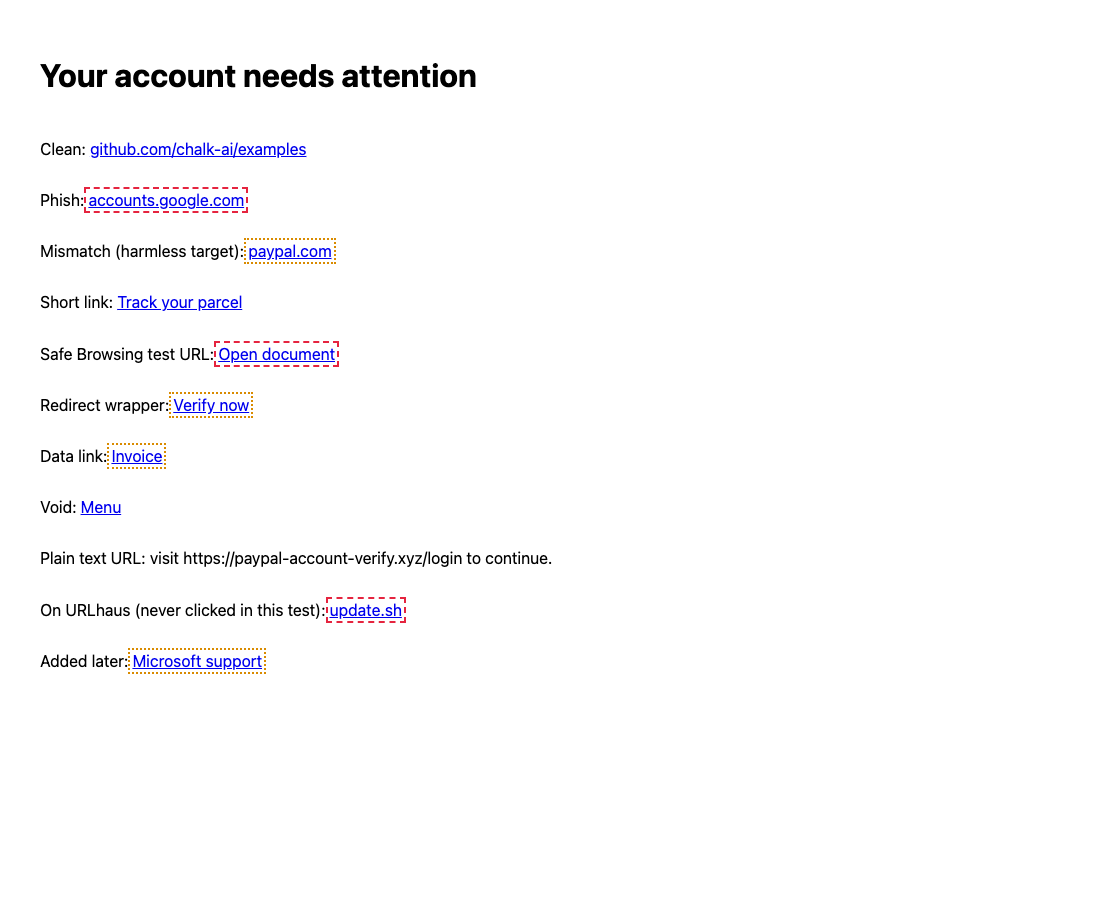
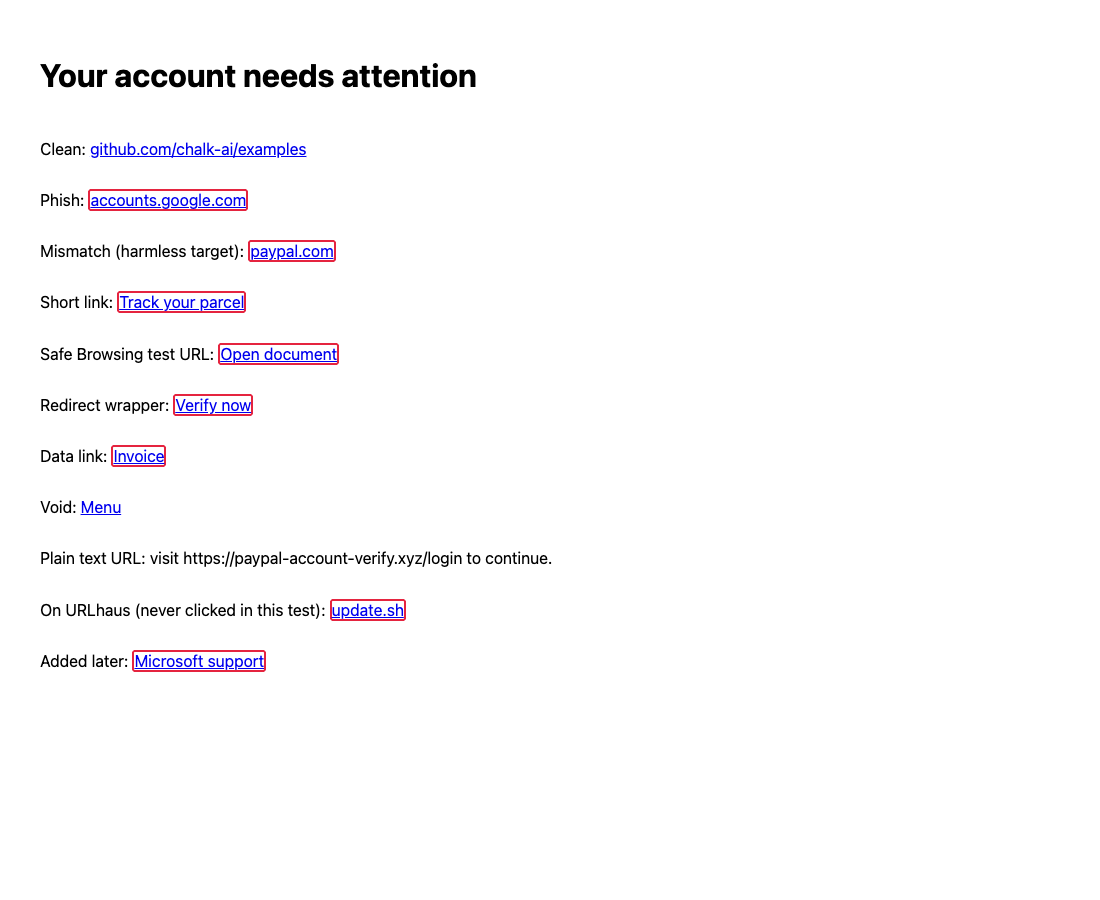
link-checks: a solid red border on every flagged link
Unknown, Suspicious and Malicious links now carry an always-visible 2 px red
border (previously amber dotted / red dashed outlines, and nothing for Unknown
until hover). Verified in headless Chrome; evidence screenshot refreshed.

diff --git a/extension/src/content.ts b/extension/src/content.ts
@@ -139,13 +139,17 @@ function reset(): void {
 // ---- Marking links ----
 
 const STYLE_ID = 'aegis-link-marks'
-// One colour per verdict that reads on light and dark pages alike: the page's background doesn't
-// follow the system theme, so the design system's theme pair doesn't fit here.
+// Every link the click guard would hold (Unknown, Suspicious, Malicious) gets a solid red border,
+// always visible, in one red that reads on light and dark pages alike (the page's background
+// doesn't follow the system theme). `clone` keeps the border on each line of a wrapped link.
 const MARK_CSS = `
-a[data-aegis-verdict="suspicious"], area[data-aegis-verdict="suspicious"] {
-  outline: 2px dotted #d98b00 !important; outline-offset: 2px !important; }
-a[data-aegis-verdict="malicious"], area[data-aegis-verdict="malicious"] {
-  outline: 2px dashed #e5243f !important; outline-offset: 2px !important; }
+a[data-aegis-verdict] {
+  border: 2px solid #e5243f !important;
+  border-radius: 3px !important;
+  -webkit-box-decoration-break: clone !important;
+  box-decoration-break: clone !important;
+}
+area[data-aegis-verdict] { outline: 2px solid #e5243f !important; }
 `
 
 function mark(): void {

diff --git a/logs/2026-10-17-link-checks/SUMMARY.md b/logs/2026-10-17-link-checks/SUMMARY.md
@@ -14,7 +14,7 @@ URLhaus-listed URL on the page was never clicked.
 | `pnpm typecheck`, `pnpm lint`, `pnpm test` (106 tests: 28 link-rule, 21 service/lookup) | run before commit |
 | Bridge answers `/page` with a verdict per link in ~0.6 s, all six checks live: Tier 1, Safe Browsing, threat feeds (URLhaus 27,758 URLs, OpenPhish 300), RDAP, DNS, certificate logs | `bridge-page-response.json`, `app-log.json` |
 | Verdicts: demo phish Malicious; Safe Browsing's test URL Malicious (live match); a URLhaus-listed URL Malicious; text/destination mismatch Suspicious; short link Unknown; `google.com/url?q=` wrapper judged by its destination; `data:` page Suspicious; `javascript:void(0)` ignored; clean GitHub link Clean | `bridge-page-response.json` |
-| Browser, 26 / 26 checks: outlines (red dashed, amber dotted), a link added after load gets a verdict, hover note, guard on a malicious click with "link said / goes to" and the session token stripped, no **Inspect in sandbox**, Back to safety stays on the page, short-link guard without **Trust this site**, clean link opens normally, **Continue anyway** opens the link, **Trust this site** opens it and the site is no longer outlined | `screens/results.json`, `screens/1-…4-*.png`, `e2e.mjs` |
+| Browser, 26 / 26 checks: a solid red border on every flagged link (changed from the first run's red dashed / amber dotted outlines at the team's request), a link added after load gets a verdict, hover note, guard on a malicious click with "link said / goes to" and the session token stripped, no **Inspect in sandbox**, Back to safety stays on the page, short-link guard without **Trust this site**, clean link opens normally, **Continue anyway** opens the link, **Trust this site** opens it and the site is no longer outlined | `screens/results.json`, `screens/1-…4-*.png`, `e2e.mjs` |
 | Every click is recorded once and updated when the user decides; stored URLs are stripped; the verdict the user saw is kept after trusting | `recorded-clicks.txt` |
 | App: Links screen counts (checked, blocked, median verdict time), panel "This page" counts and top link, Report with every reason and the six checks in words | `screens/app-links.png`, `screens/app-panel.png`, `screens/app-report.png` |
 | New bridge checks: `/page` 200 / bad body 400 / web-page Origin 403; `/click` bad id 400; `/trust bit.ly` 400; `/trust shop.example.co.uk` stores `example.co.uk` | run by hand against the app; added to `scripts/verify.sh` |

diff --git a/docs/PLAN.md b/docs/PLAN.md
@@ -373,6 +373,10 @@ false})` turns a would-be Clean into Unknown, never the reverse. "AI can only ra
       → 127.0.0.1, found on whynohttps.com) is Unknown: "points to this computer, not a public
       website". Not Malicious: Workday's own `myworkdayjobs.com` does the same. With other signals
       it adds 20 points.
+    - **Every flagged link gets a solid red border, always visible** (team request, 2026-10-17),
+      for Unknown, Suspicious and Malicious alike, instead of MEGA_PROMPT §5.1's amber dotted /
+      red dashed outlines and Unknown's hover-only note. _Cost:_ the border doesn't say which
+      verdict; the hover note and the guard do. A border takes 2 px of space, so text may shift.
     - **Plain `http` is flagged only for sign-in and payment pages** (`/login`, `/account`,
       `login.` subdomains, `/checkout`, `/pay`…): Suspicious, "a sign-in page without encryption".
       Other http sites aren't (Chrome warns about those itself; on whynohttps.com's 114 links this
